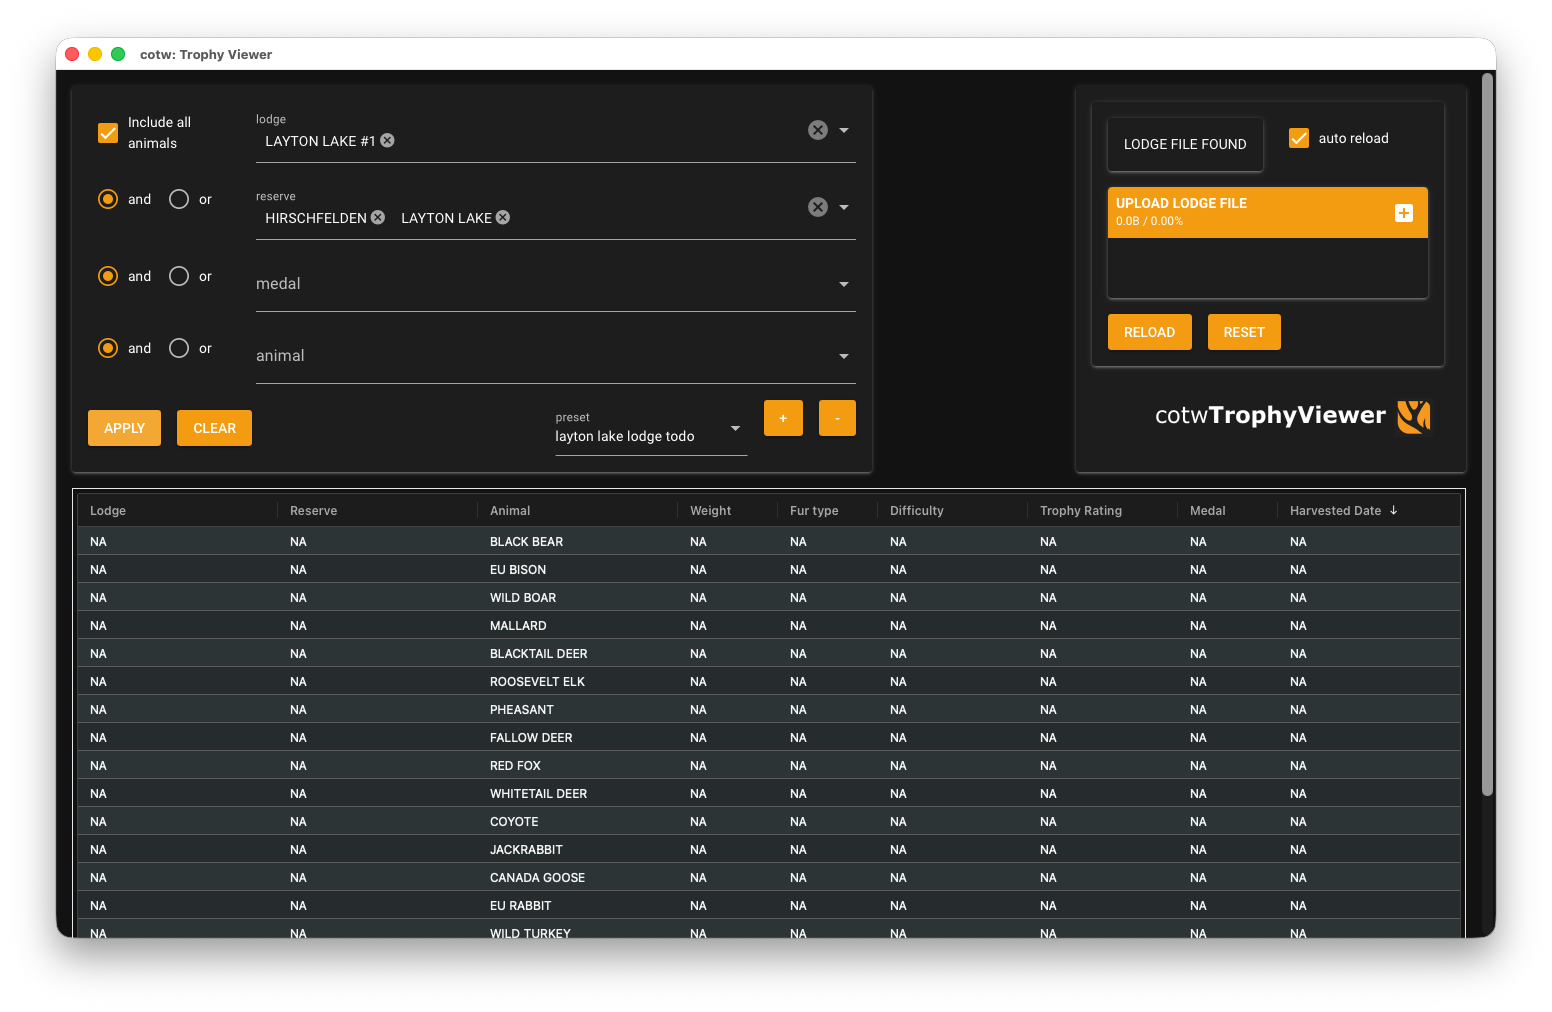
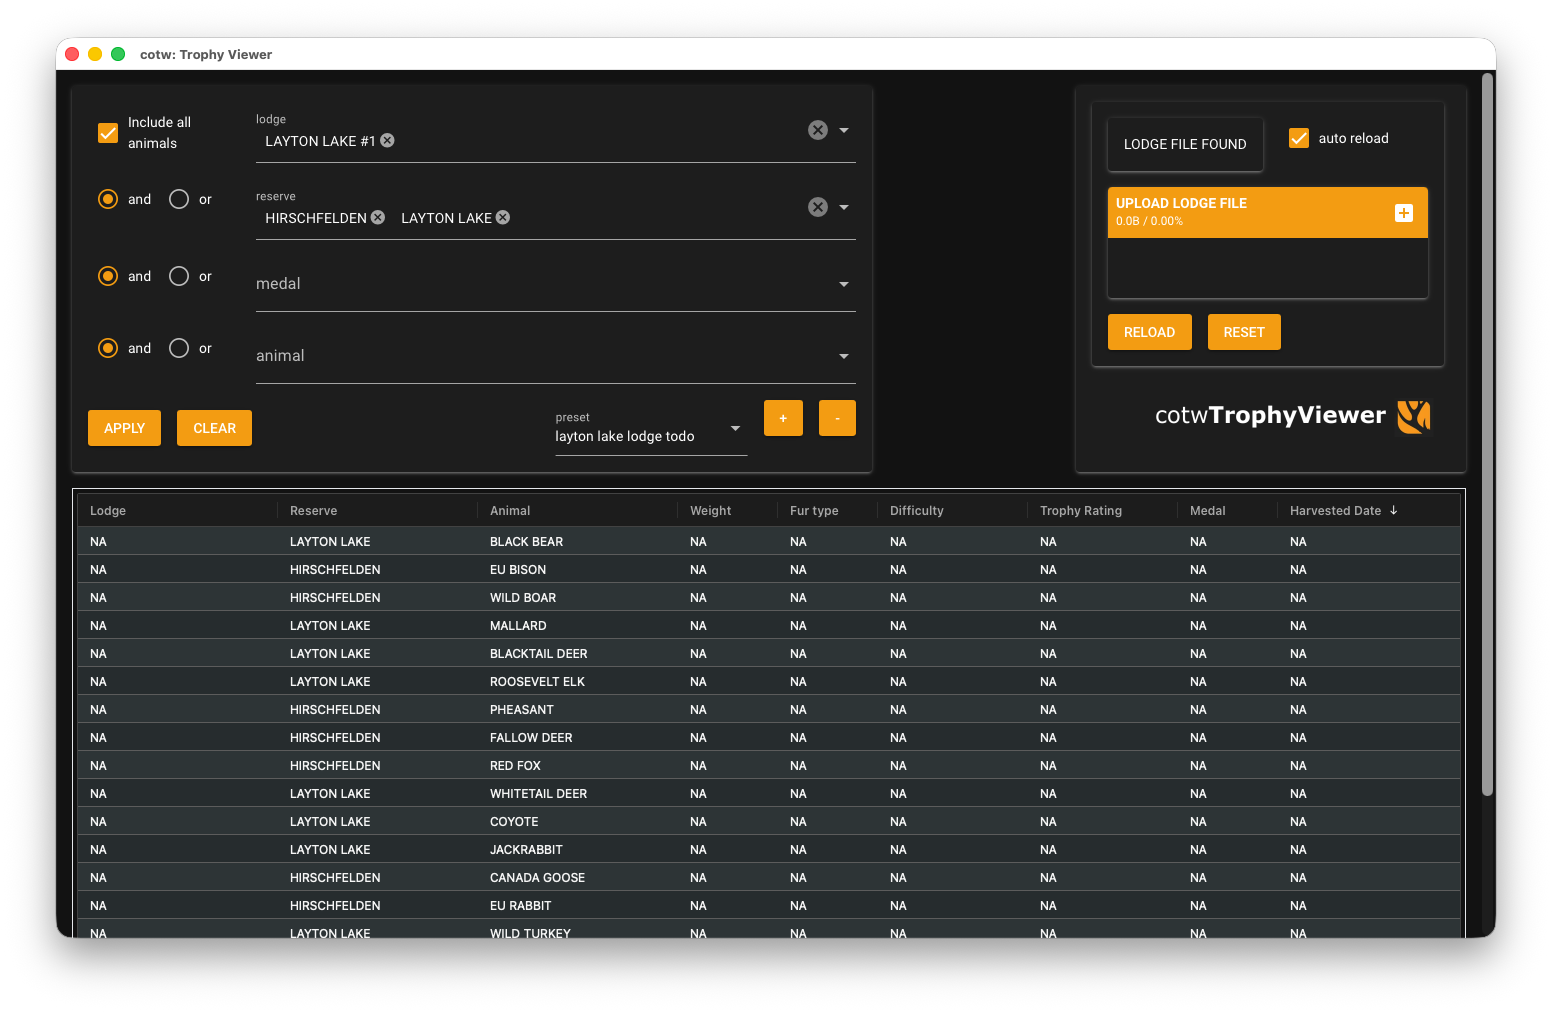
include reserve in include all animals

Changed region(s): [[0.1856, 0.5208, 0.2474, 0.9496], [0.0309, 0.3982, 0.1237, 0.4595]]

diff --git a/cotw-trophy-viewer/lib/db/query/trophy_animal_query.py b/cotw-trophy-viewer/lib/db/query/trophy_animal_query.py
@@ -96,7 +96,7 @@ class TrophyAnimalQuery:
         if _allAnimals:
             allAnimalsParams = []
 
-            trophyTypesSubquery = f"SELECT DISTINCT typeId FROM ({trophyAnimalsSql})"
+            trophyTypesSubquery = f"SELECT DISTINCT typeId, reserveId FROM ({trophyAnimalsSql}) as tt"
 
             reserveAnimalsSelectSql = """
                 SELECT DISTINCT                
@@ -111,12 +111,13 @@ class TrophyAnimalQuery:
                 NULL as lodgeId,
                 NULL as lodgeType,
                 NULL as lodgeTypeId,
-                NULL as reserveId
+                reserveId
                 FROM AnimalsReserves
+                as ra
                 """
 
             allAnimalsSql = (reserveAnimalsSelectSql
-                             + f""" WHERE typeId NOT IN ({trophyTypesSubquery})""")
+                             + f""" WHERE (typeId, reserveId) NOT IN ({trophyTypesSubquery})""")
 
             greatOneMedalSelected = _medalsIds is not None and 5 in set(_medalsIds)
             reservesSelected = bool(_reservesIds)
@@ -126,17 +127,17 @@ class TrophyAnimalQuery:
                     reservePlaceholders = ','.join(['?' for _ in _reservesIds])
                     allAnimalsSql = (reserveAnimalsSelectSql
                                      + f""" JOIN AnimalMedal USING(typeId) 
-                                                WHERE typeId NOT IN ({trophyTypesSubquery}) 
+                                                WHERE (typeId, reserveId) NOT IN ({trophyTypesSubquery}) 
                                                 AND reserveId IN ({reservePlaceholders}) """)
                     allAnimalsParams.extend(_reservesIds)
                 case (True, False):
                     allAnimalsSql = (reserveAnimalsSelectSql
                                      + f""" JOIN AnimalMedal USING(typeId)   
-                                                WHERE typeId NOT IN ({trophyTypesSubquery})""")
+                                                WHERE (typeId, reserveId) NOT IN ({trophyTypesSubquery})""")
                 case (False, True):
                     reservePlaceholders = ','.join(['?' for _ in _reservesIds])
                     allAnimalsSql = (reserveAnimalsSelectSql
-                                     + f""" WHERE typeId NOT IN ({trophyTypesSubquery})
+                                     + f""" WHERE (typeId, reserveId) NOT IN ({trophyTypesSubquery})
                                                 AND reserveId IN ({reservePlaceholders}) """)
                     allAnimalsParams.extend(_reservesIds)
                 case _:

diff --git a/cotw-trophy-viewer/lib_test/test_db_query_all_animals.py b/cotw-trophy-viewer/lib_test/test_db_query_all_animals.py
@@ -25,7 +25,7 @@ class TestAllAnimalsFunctions(unittest.TestCase):
             }
 
         trophyAnimals = getDb().trophyAnimals(query)
-        self.assertEqual(125, len(trophyAnimals))
+        self.assertEqual(209, len(trophyAnimals))
 
     def test_db_trophyAnimals_all_animals_handle_empty(self):
         query = \
@@ -41,7 +41,7 @@ class TestAllAnimalsFunctions(unittest.TestCase):
             }
 
         trophyAnimals = getDb().trophyAnimals(query)
-        self.assertEqual(125, len(trophyAnimals))
+        self.assertEqual(209, len(trophyAnimals))
 
     def test_db_trophyAnimals_all_animals_reserve(self):
         query = \
@@ -73,7 +73,7 @@ class TestAllAnimalsFunctions(unittest.TestCase):
             }
 
         trophyAnimals = getDb().trophyAnimals(query)
-        self.assertEqual(114, len(trophyAnimals))
+        self.assertEqual(200, len(trophyAnimals))
 
     def test_db_trophyAnimals_all_animals_diamond_hirsch(self):
         query = \

diff --git a/cotw-trophy-viewer/lib_test/test_db_query_all_animals_great_one.py b/cotw-trophy-viewer/lib_test/test_db_query_all_animals_great_one.py
@@ -25,7 +25,7 @@ class TestAllAnimalsFunctions(unittest.TestCase):
             }
 
         trophyAnimals = getDb().trophyAnimals(query)
-        self.assertEqual(8, len(trophyAnimals))
+        self.assertEqual(35, len(trophyAnimals))
 
     def test_db_trophyAnimals_all_animals_great_one_hirsch(self):
         query = \
